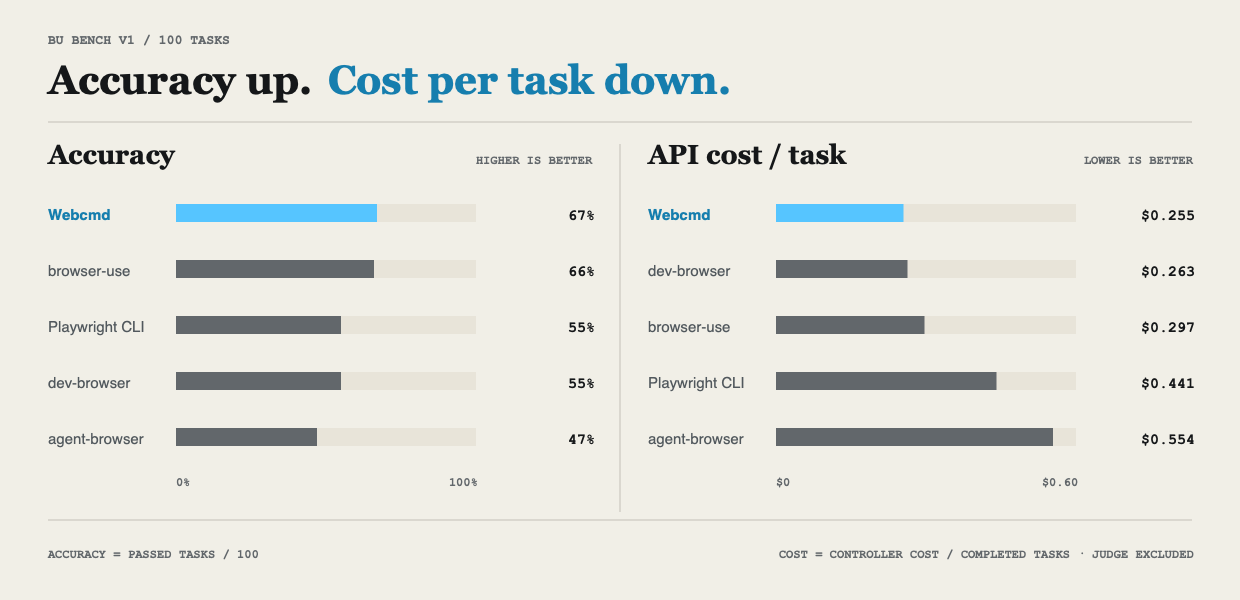
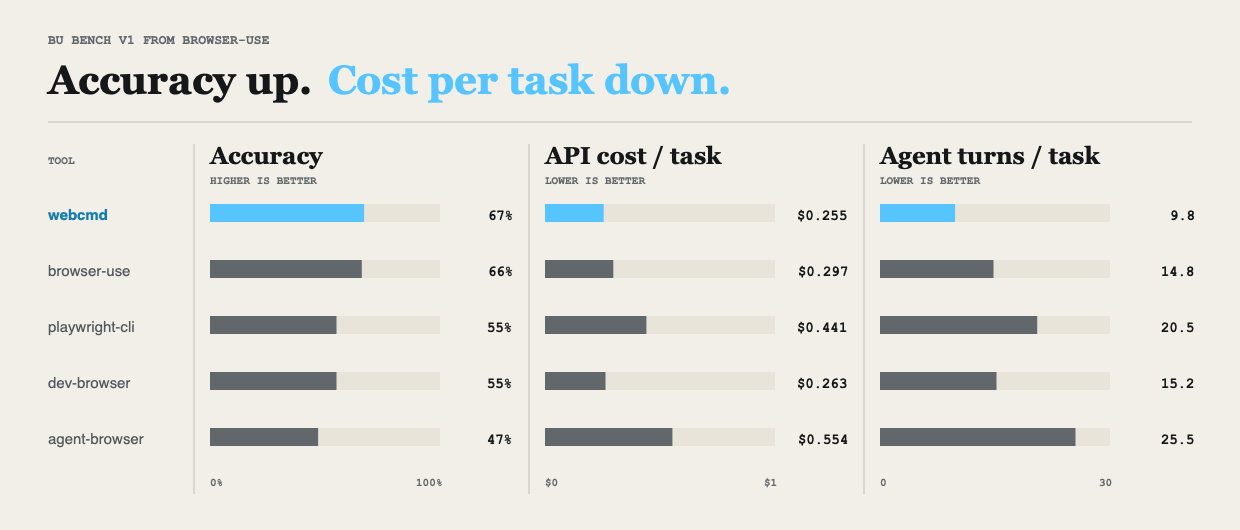
docs: refine benchmark infographic

diff --git a/README.md b/README.md
@@ -129,16 +129,18 @@ agent to search and install the relevant plugin when a site is not installed.
 
 On [BU Bench V1](https://github.com/browser-use/benchmark#bu-bench-v1), a
 100-task browser automation benchmark, Webcmd recorded the highest accuracy and
-lowest estimated controller cost per completed task in this comparison.
+lowest estimated controller cost per completed task, and fewest agent turns per
+completed task in this comparison.
 
-![BU Bench V1 comparison: Webcmd leads accuracy at 67% and cost per completed task at $0.255](./benchmarks/charts/bu-bench-readme.png)
+![BU Bench V1 comparison: webcmd leads accuracy at 67%, cost per completed task at $0.255, and agent turns per completed task at 9.8](./benchmarks/charts/bu-bench-readme.png)
 
 All tools used the same Pi controller, controller model, Codex `gpt-5.4` judge,
 and CloakBrowser engine. This is a stronger judge than the original BU Bench
 setup, whose [current runner uses Gemini 2.5 Flash](https://github.com/browser-use/benchmark/blob/main/run_eval.py#L37-L38).
-Accuracy is passed tasks out of 100. Cost per task averages over completed tasks
-and excludes judge usage. See the [benchmark report](./benchmarks/README.md) for
-category results, methodology, architectural analysis, and reproduction steps.
+Accuracy is passed tasks out of 100. Cost and agent turns are averaged over
+completed tasks; cost excludes judge usage. See the
+[benchmark report](./benchmarks/README.md) for category results, methodology,
+architectural analysis, and reproduction steps.
 
 ## Learn More
 
